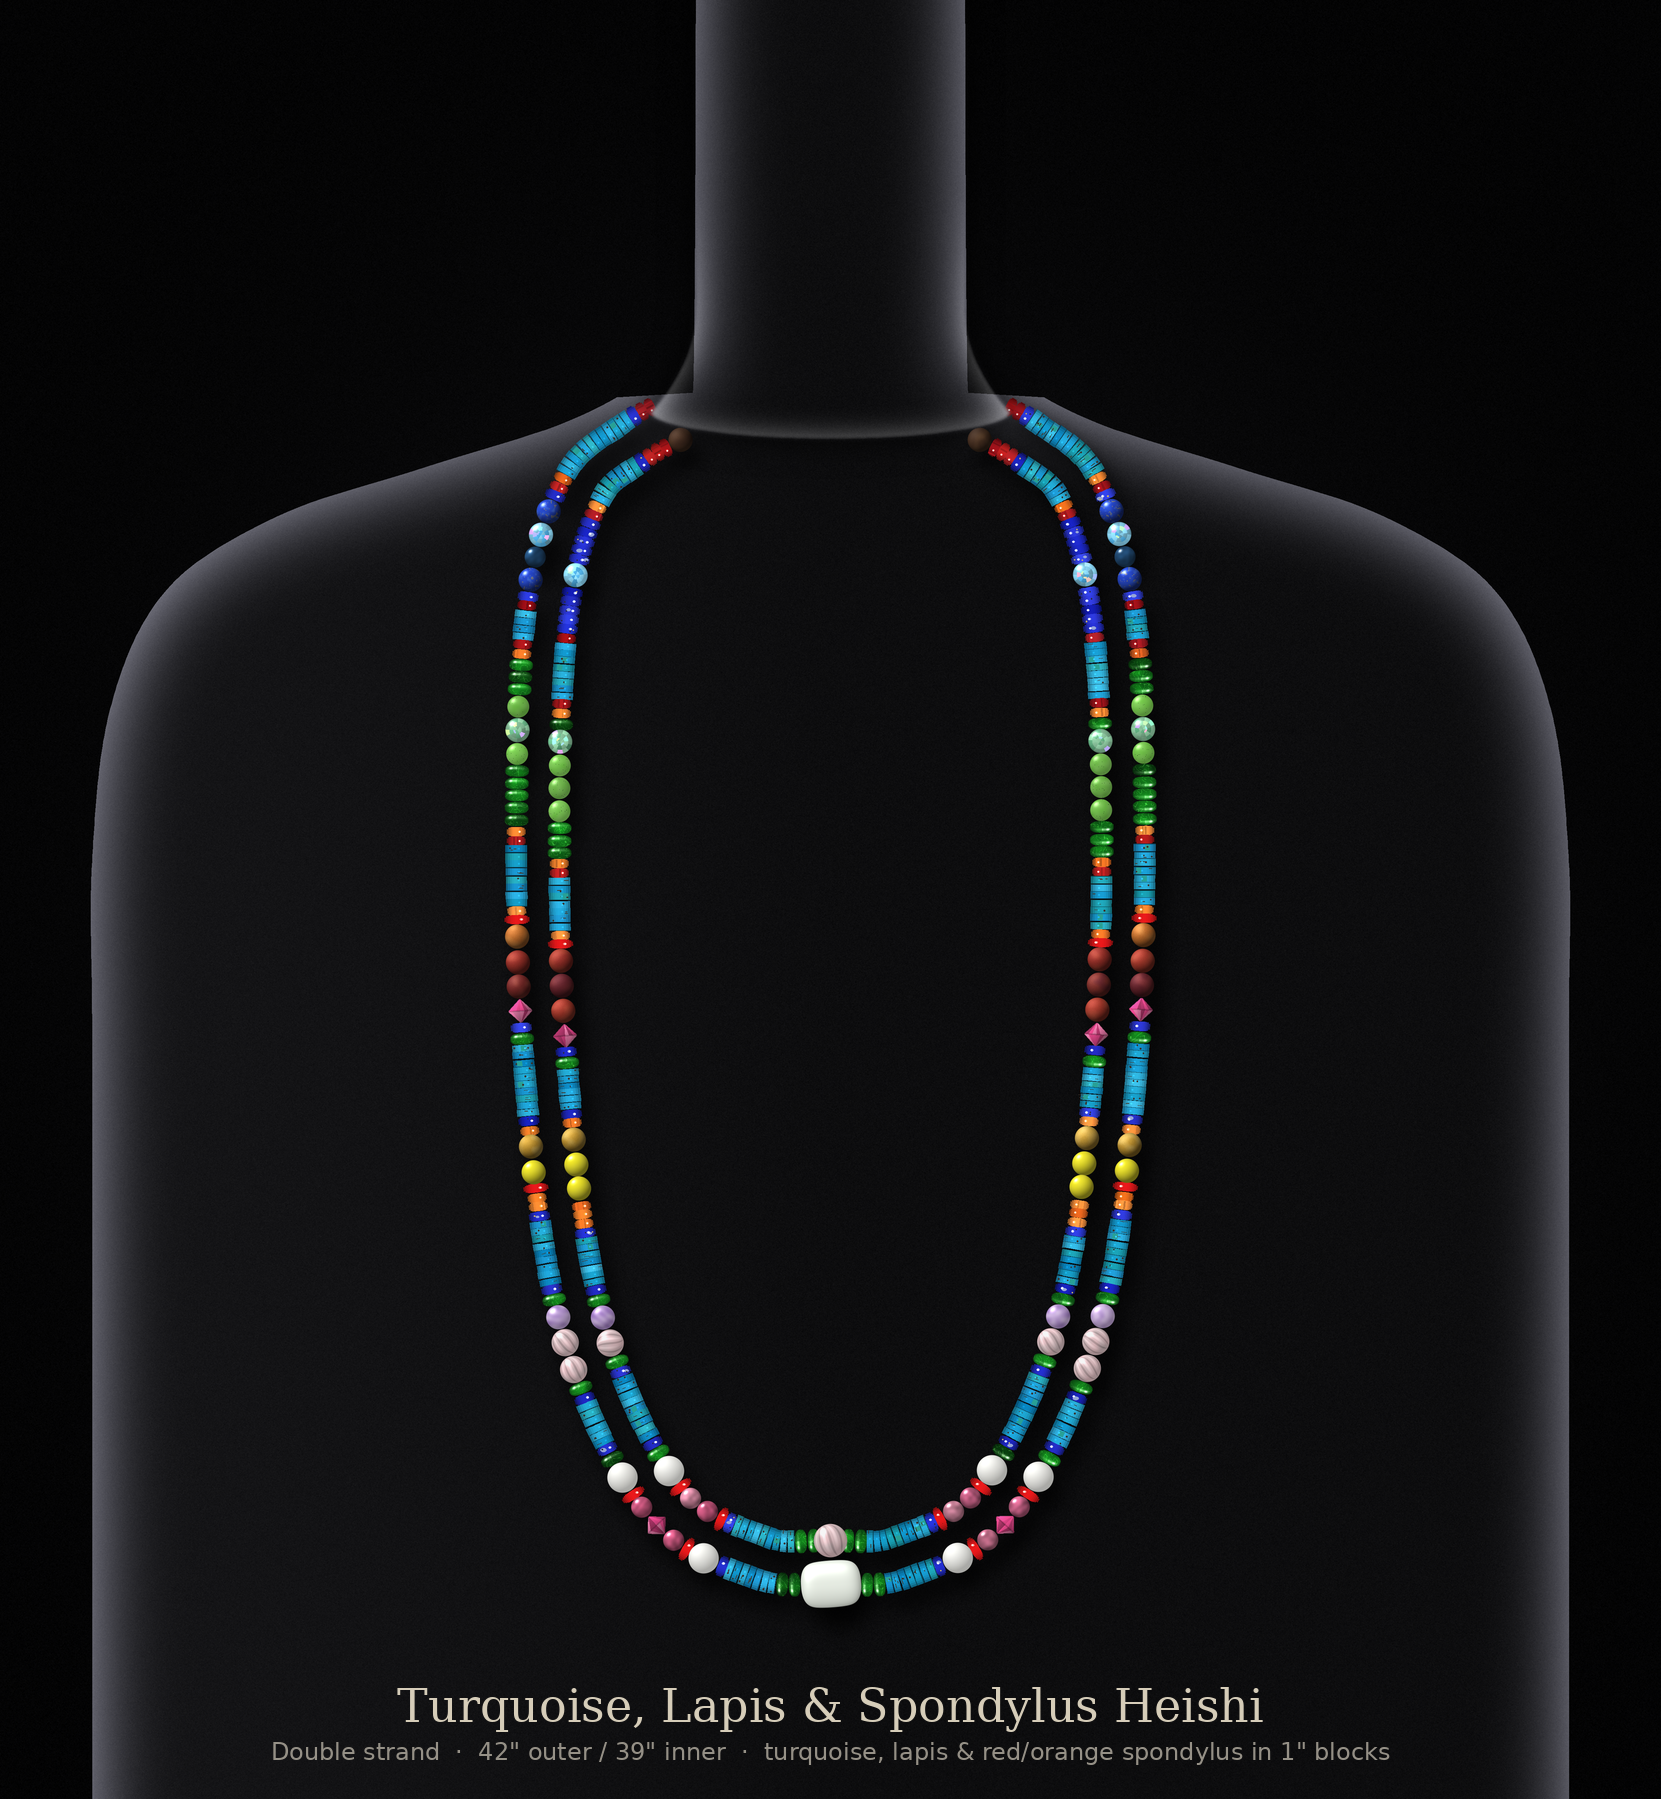
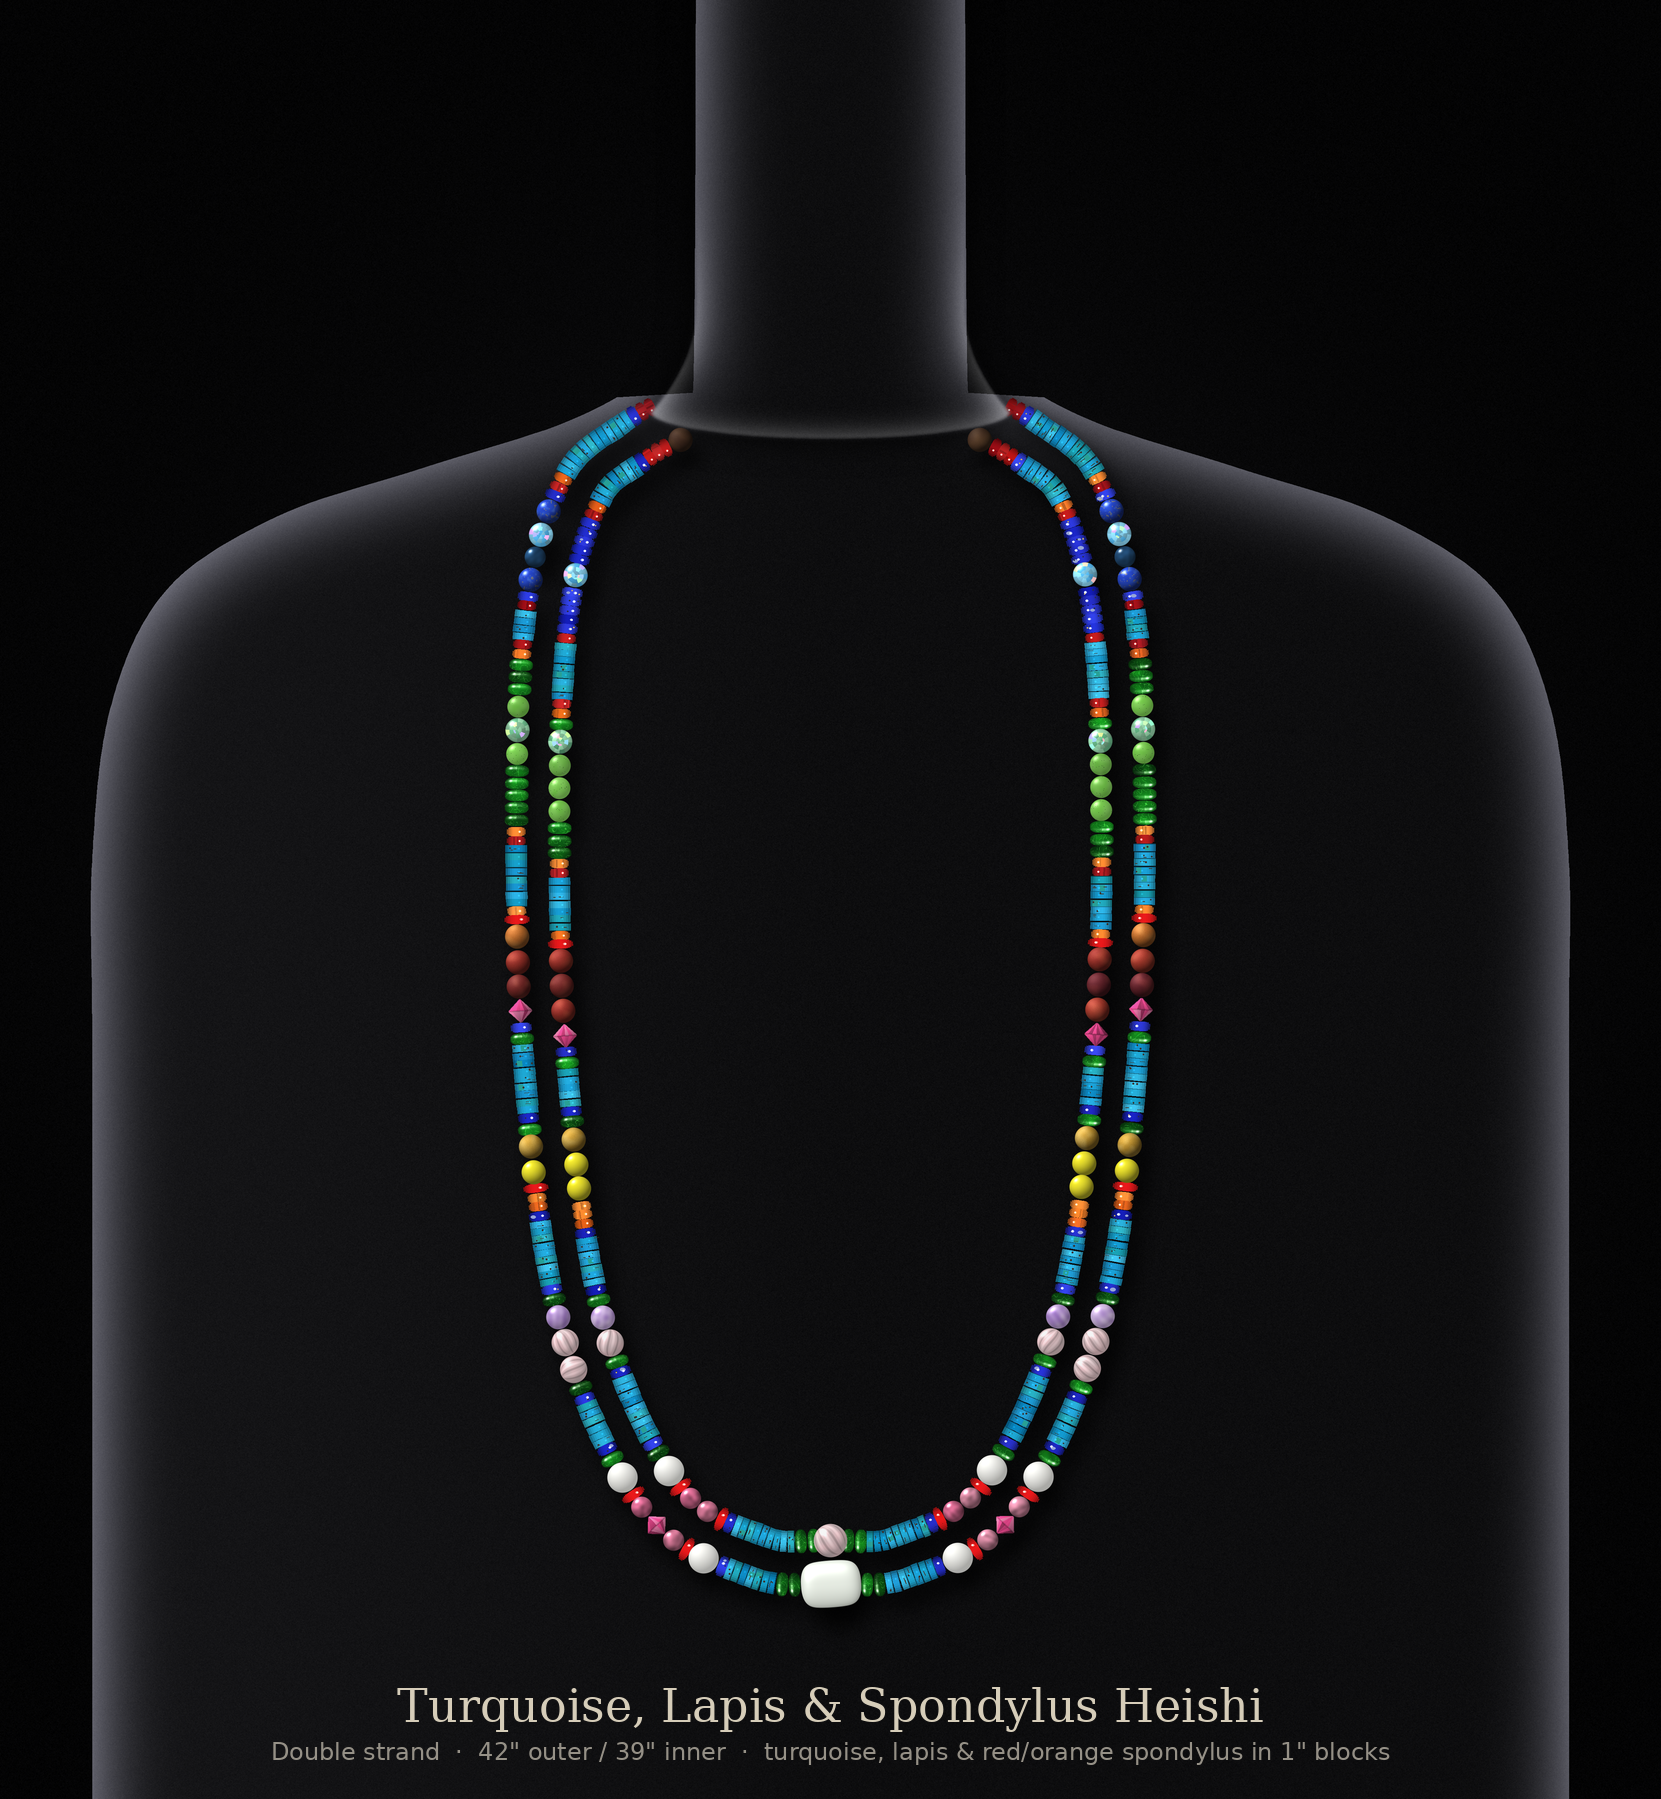
Version 5: chrome diopside instead of orange atop the yellow band
Claude-Session: https://claude.ai/code/session_014be1vF4Rdf8sv9Si75Gudv

diff --git a/necklace/render_necklace.py b/necklace/render_necklace.py
@@ -1030,6 +1030,8 @@ if V4:
         assert all(b[2] == "opal10" for b in BANDS[8])
         BANDS[3] = tuple(b[:1] + b[2:] for b in BANDS[3])   # one orange fewer at the top of the yellow band (room for that diopside)
         assert all(b[1] == "orange" for b in BANDS[3])
+        BANDS[3] = tuple(b[:1] + ["diop"] + b[2:] for b in BANDS[3])   # chrome diopside instead of orange atop the yellow mookaite
+        assert all(b[2] == "mookyel" for b in BANDS[3])
         # yellow band moves down, between the mookaite (brown) band and the white band
         _ord = [0, 1, 2, 4, 5, 6, 3, 7, 8]
         BANDS = [BANDS[i] for i in _ord]
@@ -1137,6 +1139,7 @@ if V4:
                 widths = [sum(SZ[k] for k in stn) for stn in STN]
                 widths[5] -= SZ["diop"]             # diopside under the mookaite band grows it downward...
                 widths[6] += SZ["orange"]           # ...into the room left by the orange removed from the top of the yellow band
+                widths[6] -= SZ["diop"] - SZ["orange"]   # yellow band's top diopside (1 mm more than the orange it replaced)
                 widths[8] -= SZ["diop"]             # diopside above the white opal: band grows upward, room from the neck
                 widths[3] -= SZ["orange"]           # orange atop the blue band: room from the neck lapis
                 if st == 1:
@@ -1208,6 +1211,8 @@ if V4:
                 widths[4] += 6.0
                 widths[5] += SZ["diop"]
                 widths[6] -= SZ["orange"]
+                widths[6] += SZ["diop"] - SZ["orange"]
+                gaps[6] -= SZ["diop"] - SZ["orange"]     # ...taken from the turquoise run just above it (neck lapis is used up)
                 widths[8] += SZ["diop"]
                 _need = 6.0 + SZ["diop"] - SZ["orange"] + SZ["diop"]
                 if st == 1:
